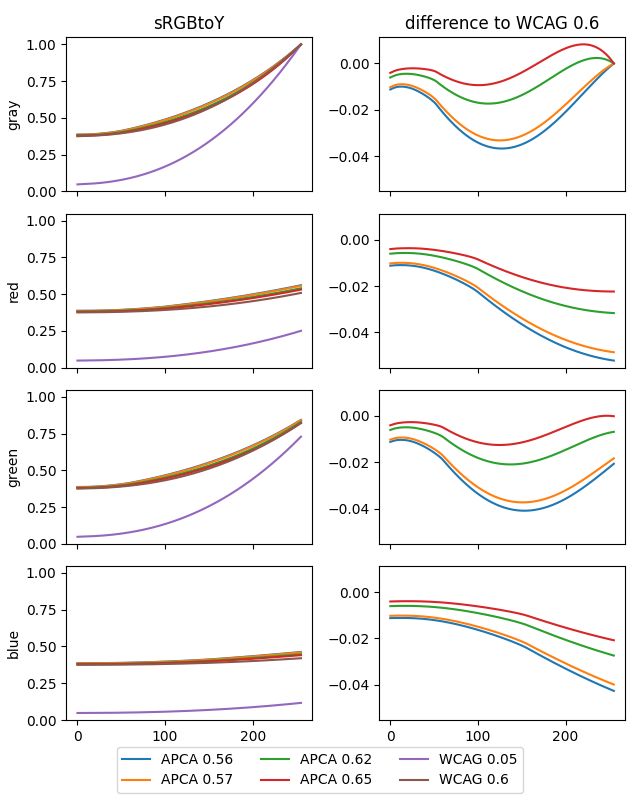
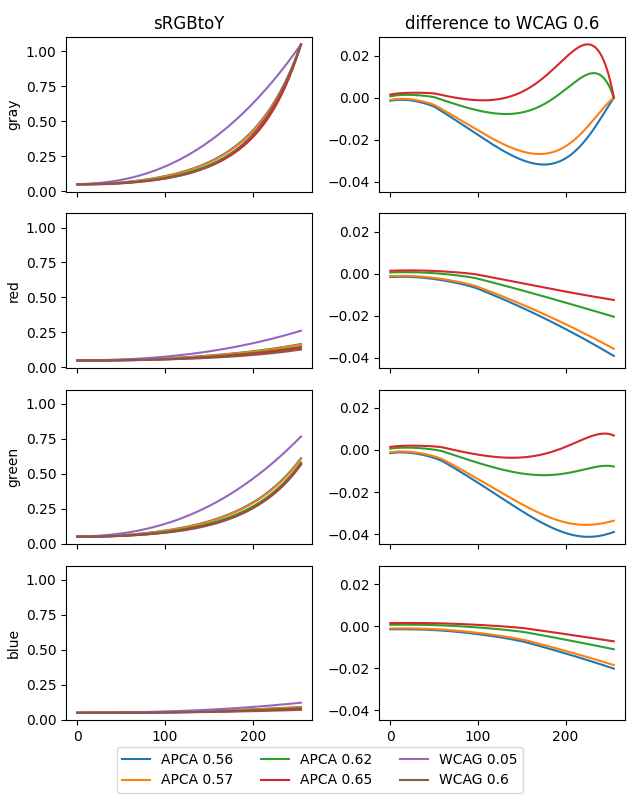
normalize sRGBtoY before comparison

diff --git a/plots/sRGBtoY_comparison.py b/plots/sRGBtoY_comparison.py
@@ -1,3 +1,5 @@
+import math
+
 from matplotlib import pyplot as plt
 import numpy as np
 
@@ -10,7 +12,11 @@ def wcag(x, factor, ambient):
 	y = x / 255
 	y = np.where(y < 0.04045, y / 12.92, ((y + 0.055) / 1.055) ** 2.4)
 	y *= factor
-	return (y + ambient) / (1 + ambient)
+	y += ambient
+
+	y0 = ambient
+	y1 = 1 + ambient
+	return (y / y0) ** math.log(21, y1 / y0) / 20
 
 
 def apca(x, factor, exp):
@@ -19,7 +25,11 @@ def apca(x, factor, exp):
 	y *= factor
 	y += np.where(y < 0.022, 0.022 - y, 0) ** 1.414
 	y **= exp
-	return np.exp(y) / np.exp(1)
+	y = np.exp(y)
+
+	y0 = math.exp((0.022 ** 1.414) ** 0.6)
+	y1 = math.exp(1)
+	return (y / y0) ** math.log(21, y1 / y0) / 20
 
 
 if __name__ == '__main__':

diff --git a/analysis.md b/analysis.md
@@ -185,7 +185,7 @@ function sRGBtoY_modified(srgb, exponent) {
   if (y < 0.022) {
     y += Math.pow(0.022 - y, 1.414);
   }
-  return Math.exp(Math.pow(y, exponent)) / Math.exp(1);
+  return Math.exp(Math.pow(y, exponent));
 }
 ```
 
@@ -205,14 +205,35 @@ To get a better feeling for how these formulas compare, I plotted the results
 of `sRGBtoY()`. In order to reduce colors to a single dimension, I used gray
 `[x, x, x]`, red `[x, 0, 0]`, green `[0, x, 0]` and blue `[0, 0, x]` values.
 
+I also normalized the values so they are in the same range as WCAG 2.x. I used
+factors (because they do not change the contrast ratio) and powers (because
+they are monotonous on the contrast ratio).
+
+```js
+var average_exponent = 0.6;
+var y0 = Math.exp(Math.pow(0.022, 1.414 * average_exponent));
+var y1 = Math.exp(1);
+
+function normalize(y) {
+  // scale the lower end to 1
+  y /= y0;
+
+  // scale the upper end to 21
+  // we use a power so the lower end stays at 1
+  y = Math.pow(y, Math.log(21) / Math.log(y1 / y0));
+
+  // scale down to the desired range
+  return y / 20;
+}
+```
+
 ![sRGBtoY comparison](plots/sRGBtoY_comparison.png)
 
 The four curves for APCA are very similar. Despite the very different formula,
-the WCAG 2.x curve also has a similar shape, although it is a lot lower. I
-added another curve that uses the WCAG 2.x formula, but with an ambient light
-value of 0.6 instead of 0.05. This one is very similar to the APCA curves. The
-second column shows the differences between the APCA curves and this modified
-WCAG 2.x.
+the WCAG 2.x curve also has a similar shape. I added a modified WCAG 2.x curve
+with an ambient light value of 0.6 instead of 0.05. This one is very similar
+to the APCA curves. The second column shows the differences between the APCA
+curves and this modified WCAG 2.x.
 
 The APCA contrast formula is certainly not as obvious a choice as the one from
 WCAG 2.x. I was not able to find much information on how it was derived. A
